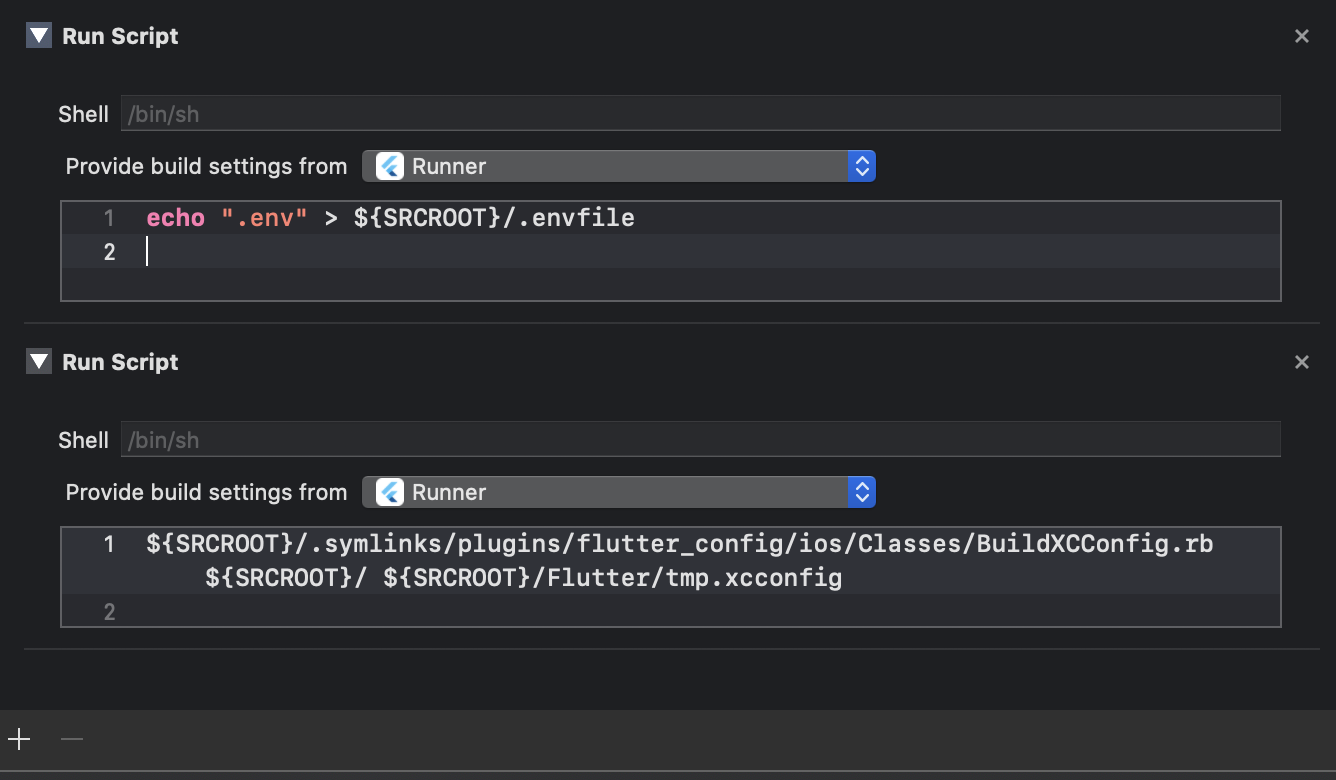
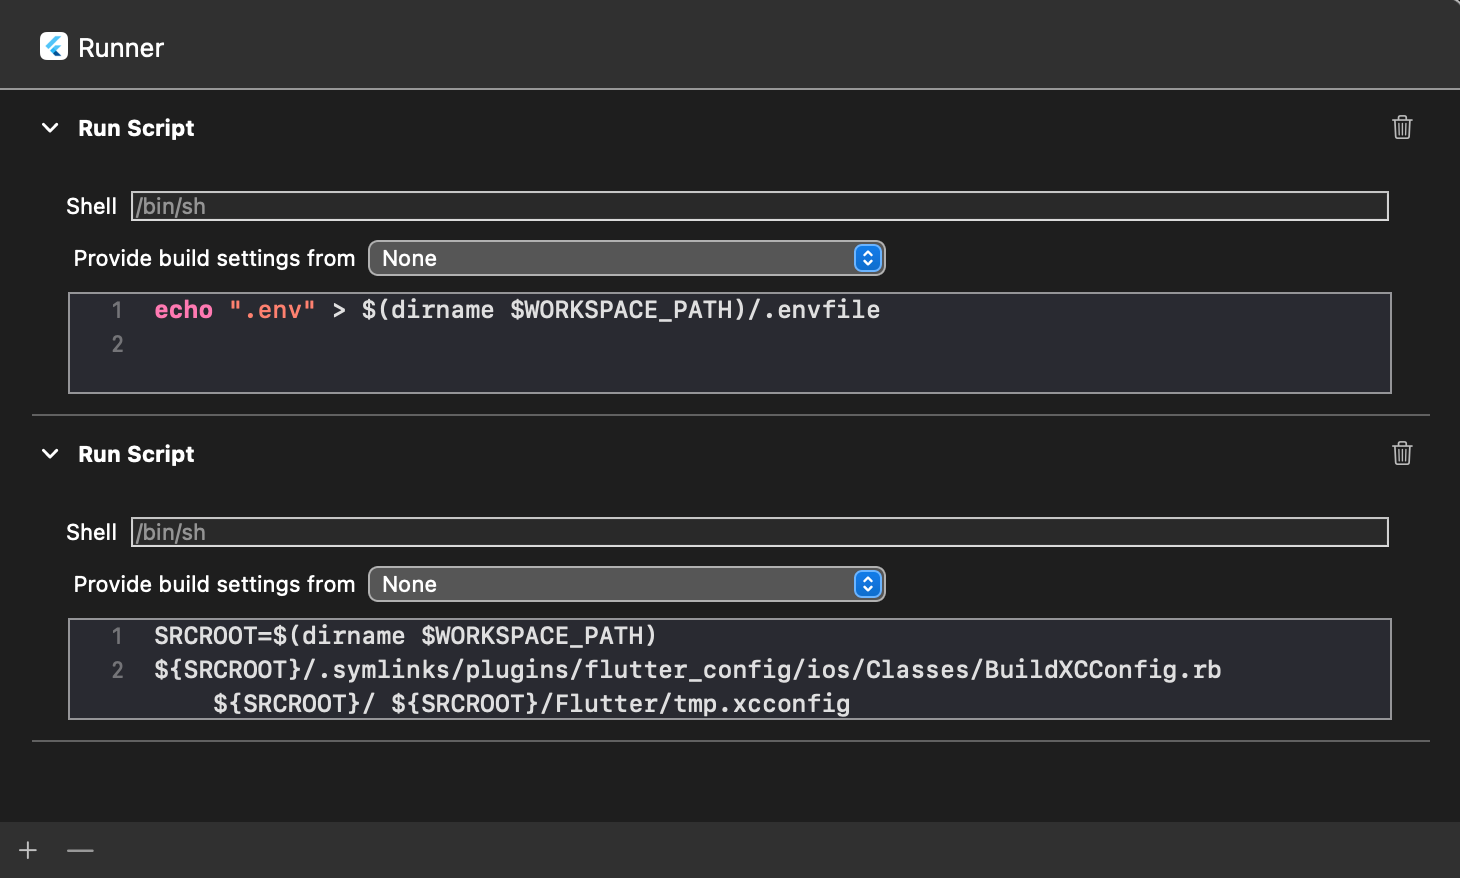
Use WORKSPACE_PATH instead of SRCROOT

diff --git a/doc/IOS.md b/doc/IOS.md
@@ -40,10 +40,11 @@ Extra steps are required if you are reading env varibles from your `info.plist` 
    ![img](./pic3.png)
 
    ```
-   echo ".env" > ${SRCROOT}/.envfile
+   echo ".env" > $(dirname $WORKSPACE_PATH)/.envfile
    ```
 
    ```
+   SRCROOT=$(dirname $WORKSPACE_PATH)
    ${SRCROOT}/.symlinks/plugins/flutter_config/ios/Classes/BuildXCConfig.rb ${SRCROOT}/ ${SRCROOT}/Flutter/tmp.xcconfig
    ```
 
@@ -77,7 +78,7 @@ In the Xcode menu, go to Product > Scheme > Manage Schemes > select your scheme 
 - Follow steps 3 and 4 again for each scheme and replace you env files
 
 ```
-echo ".env.staging" > ${SRCROOT}/.envfile   # replace .env.staging for your file
+echo ".env.staging" > $(dirname $WORKSPACE_PATH)/.envfile   # replace .env.staging for your file
 ```
 
 This is still a bit experimental and dirty – let us know if you have a better idea on how to make iOS use different configurations opening a pull request or issue!
